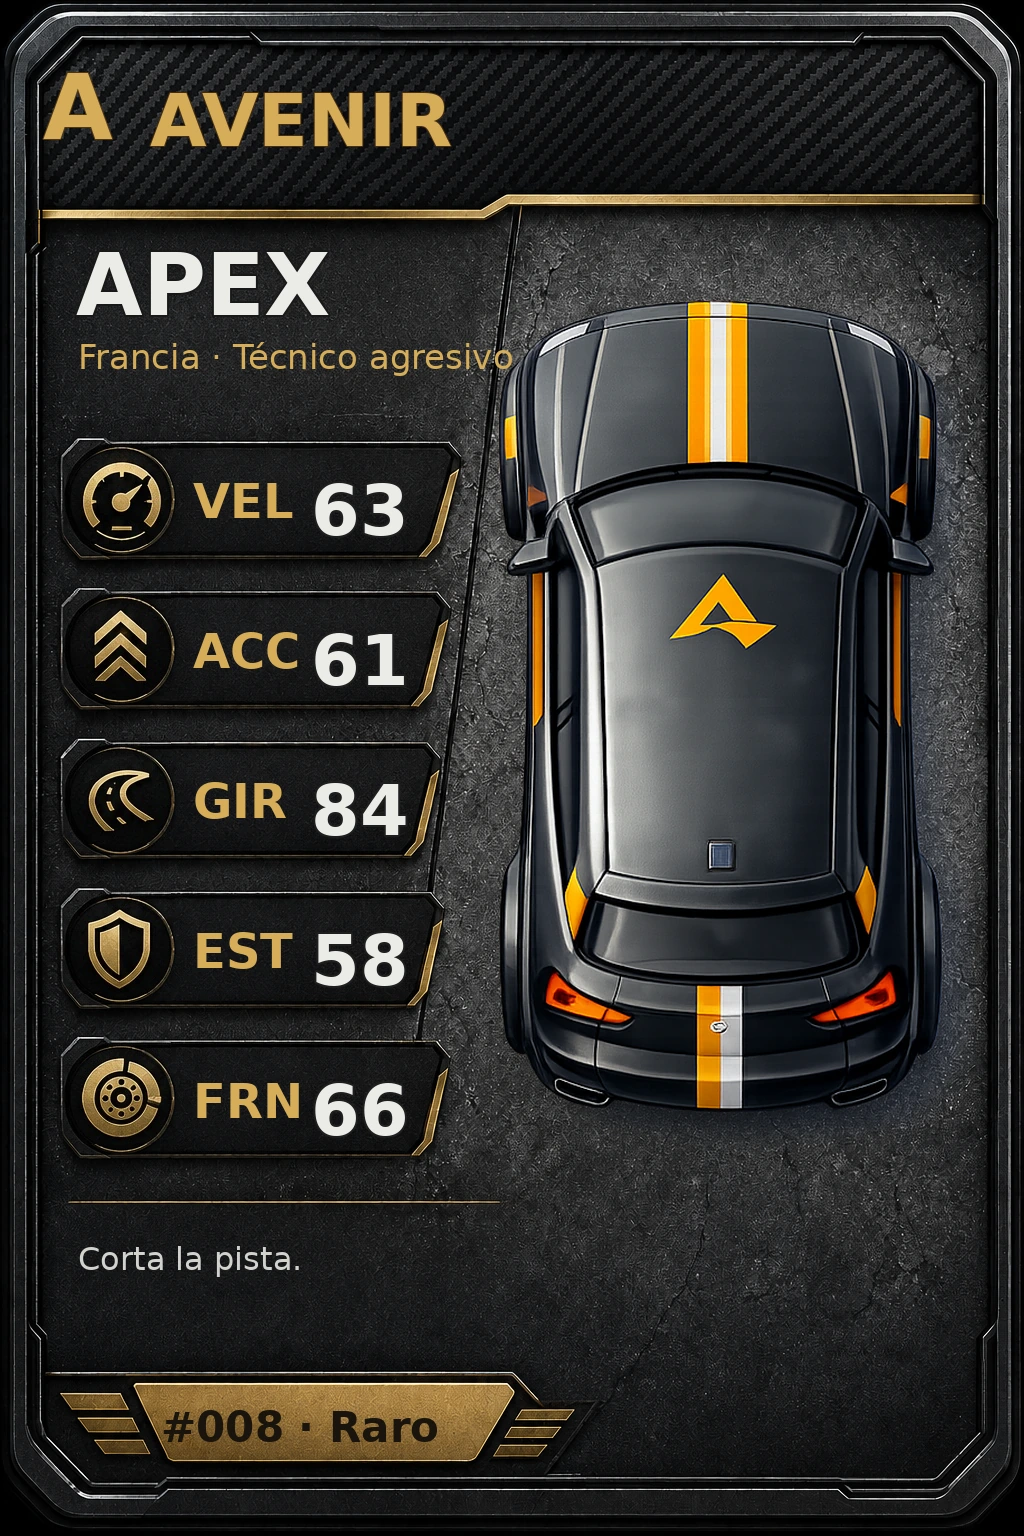
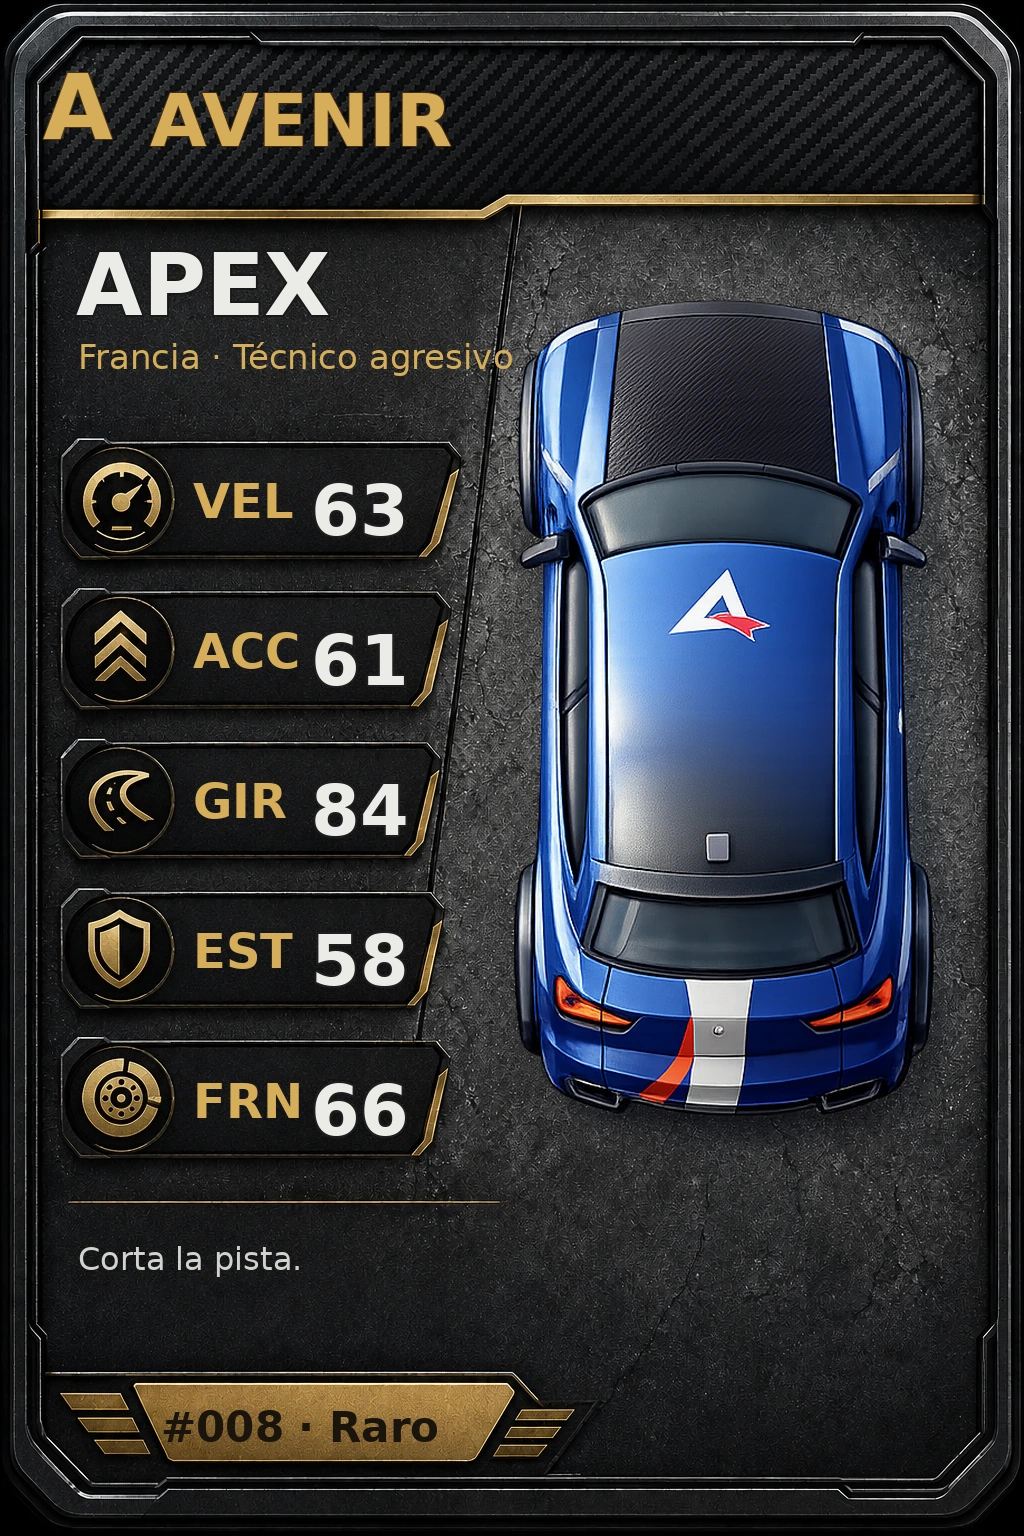
fix: correct Avenir card vehicle mapping

Changed region(s): [[0.4688, 0.1875, 0.9375, 0.75]]

diff --git a/src/game/cars/carSpecs.js b/src/game/cars/carSpecs.js
@@ -382,7 +382,7 @@ handlingProfile: 'F1_DOWNFORCE',
     // UI / Colección
     collectionNo: 7,
     rarity: 'Poco común',
-    cardAssetVersion: 3,
+    cardAssetVersion: 4,
     skin: 'skin_avenir_gripline.webp',
     visualScale: 1.02,
 
@@ -420,7 +420,7 @@ handlingProfile: 'F1_DOWNFORCE',
     // UI / Colección
     collectionNo: 8,
     rarity: 'Raro',
-    cardAssetVersion: 3,
+    cardAssetVersion: 4,
     skin: 'skin_avenir_apex.webp',
     visualScale: 1.03,
 
@@ -458,7 +458,7 @@ handlingProfile: 'F1_DOWNFORCE',
     // UI / Colección
     collectionNo: 9,
     rarity: 'Élite',
-    cardAssetVersion: 3,
+    cardAssetVersion: 4,
     skin: 'skin_avenir_torque.webp',
     visualScale: 1.04,
 
